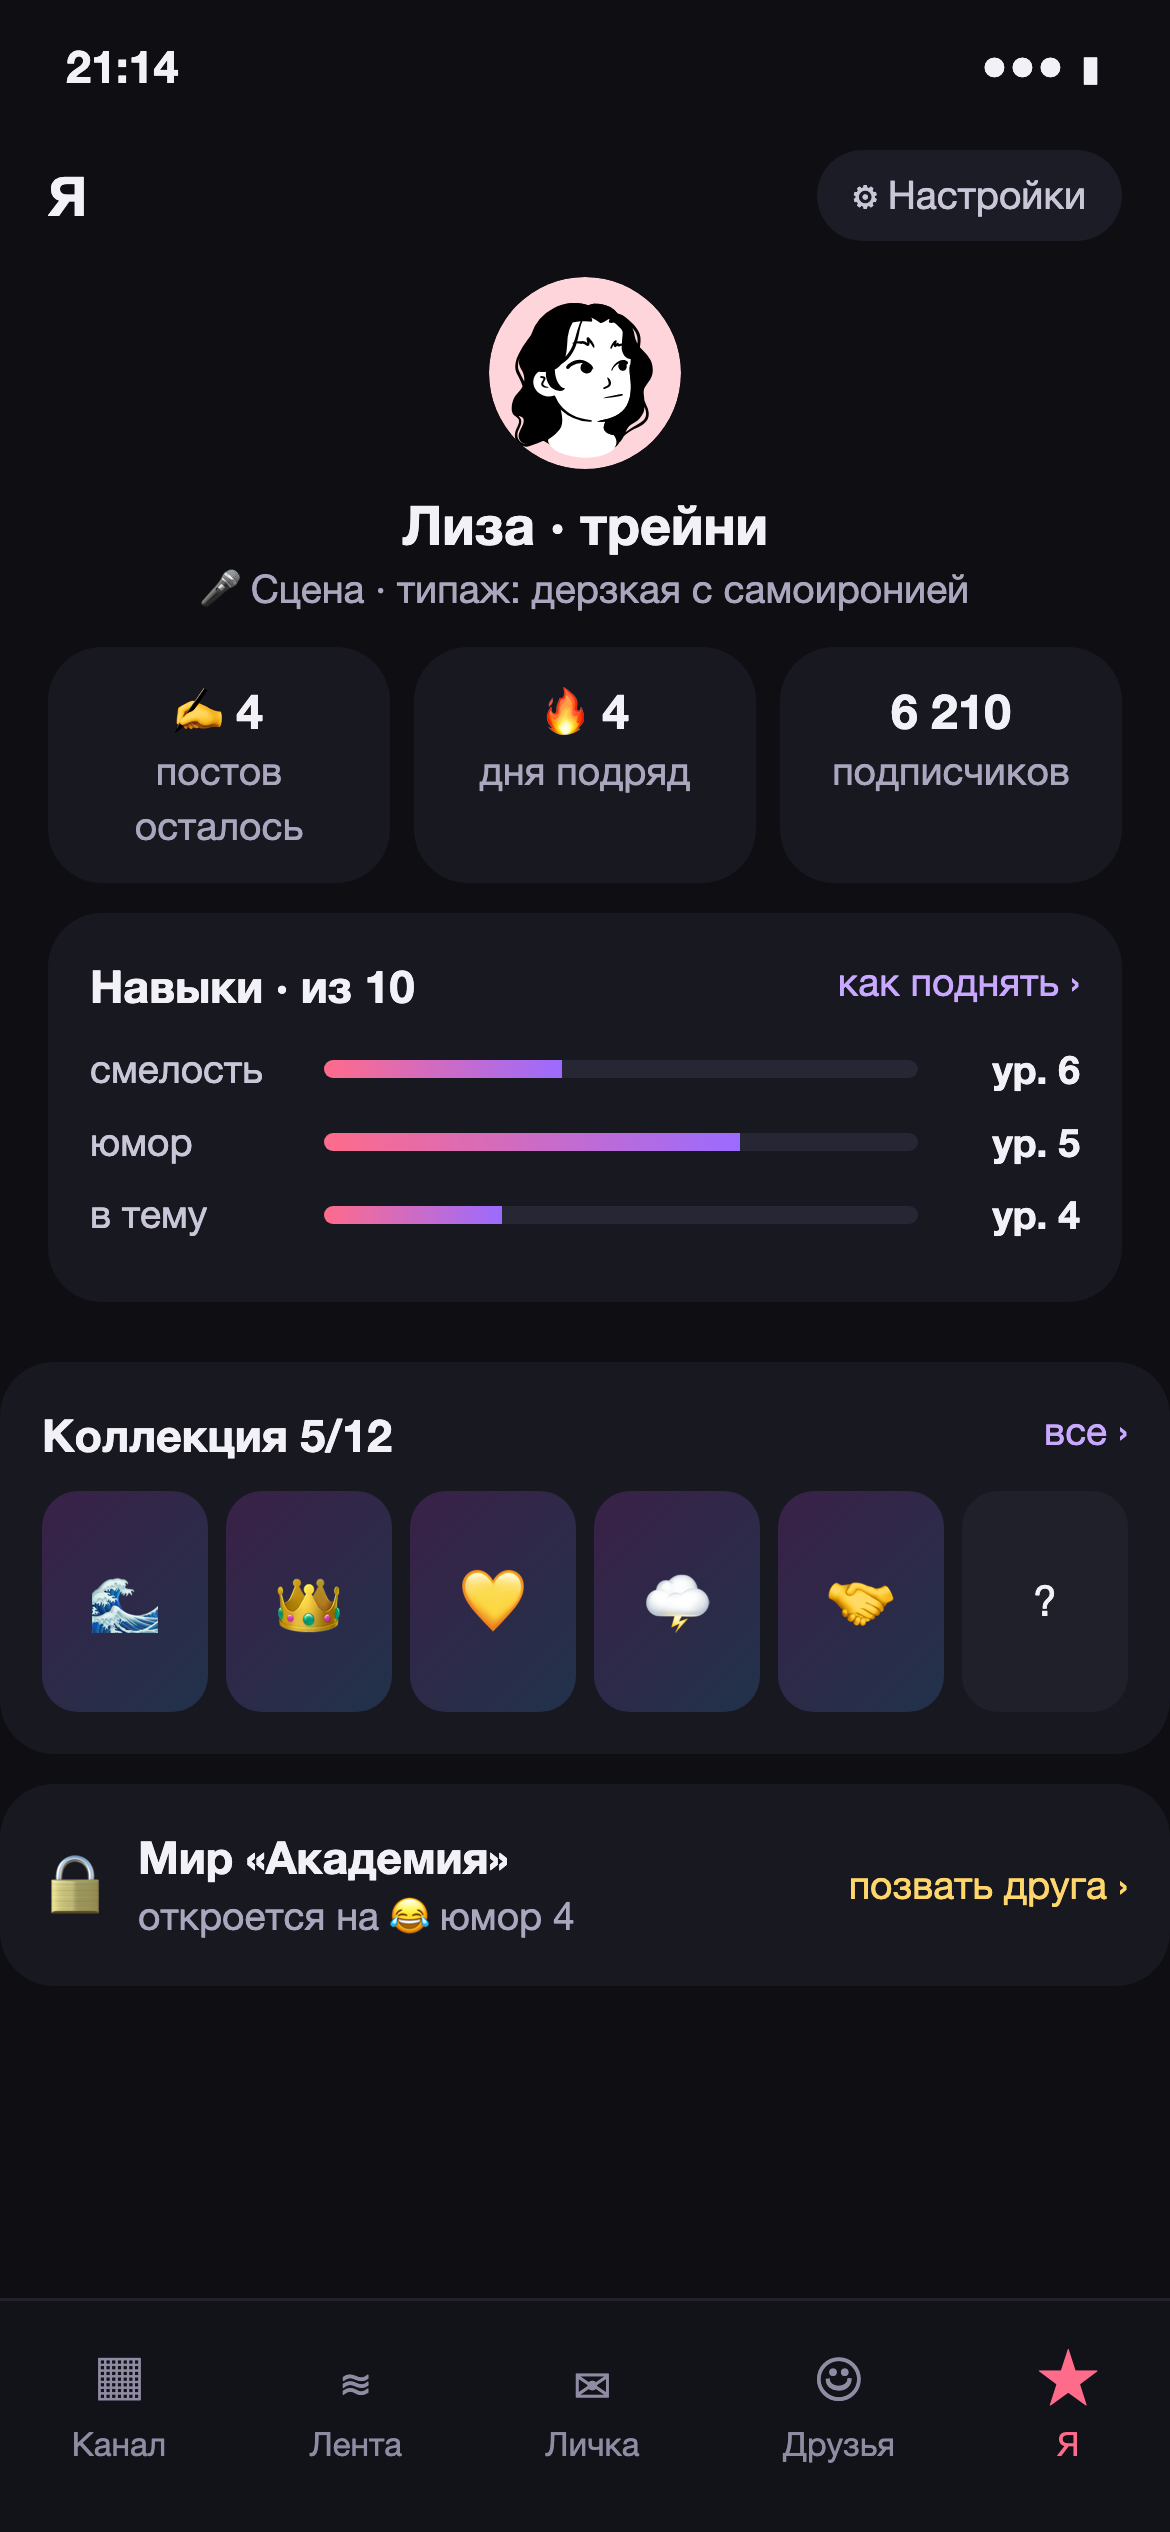
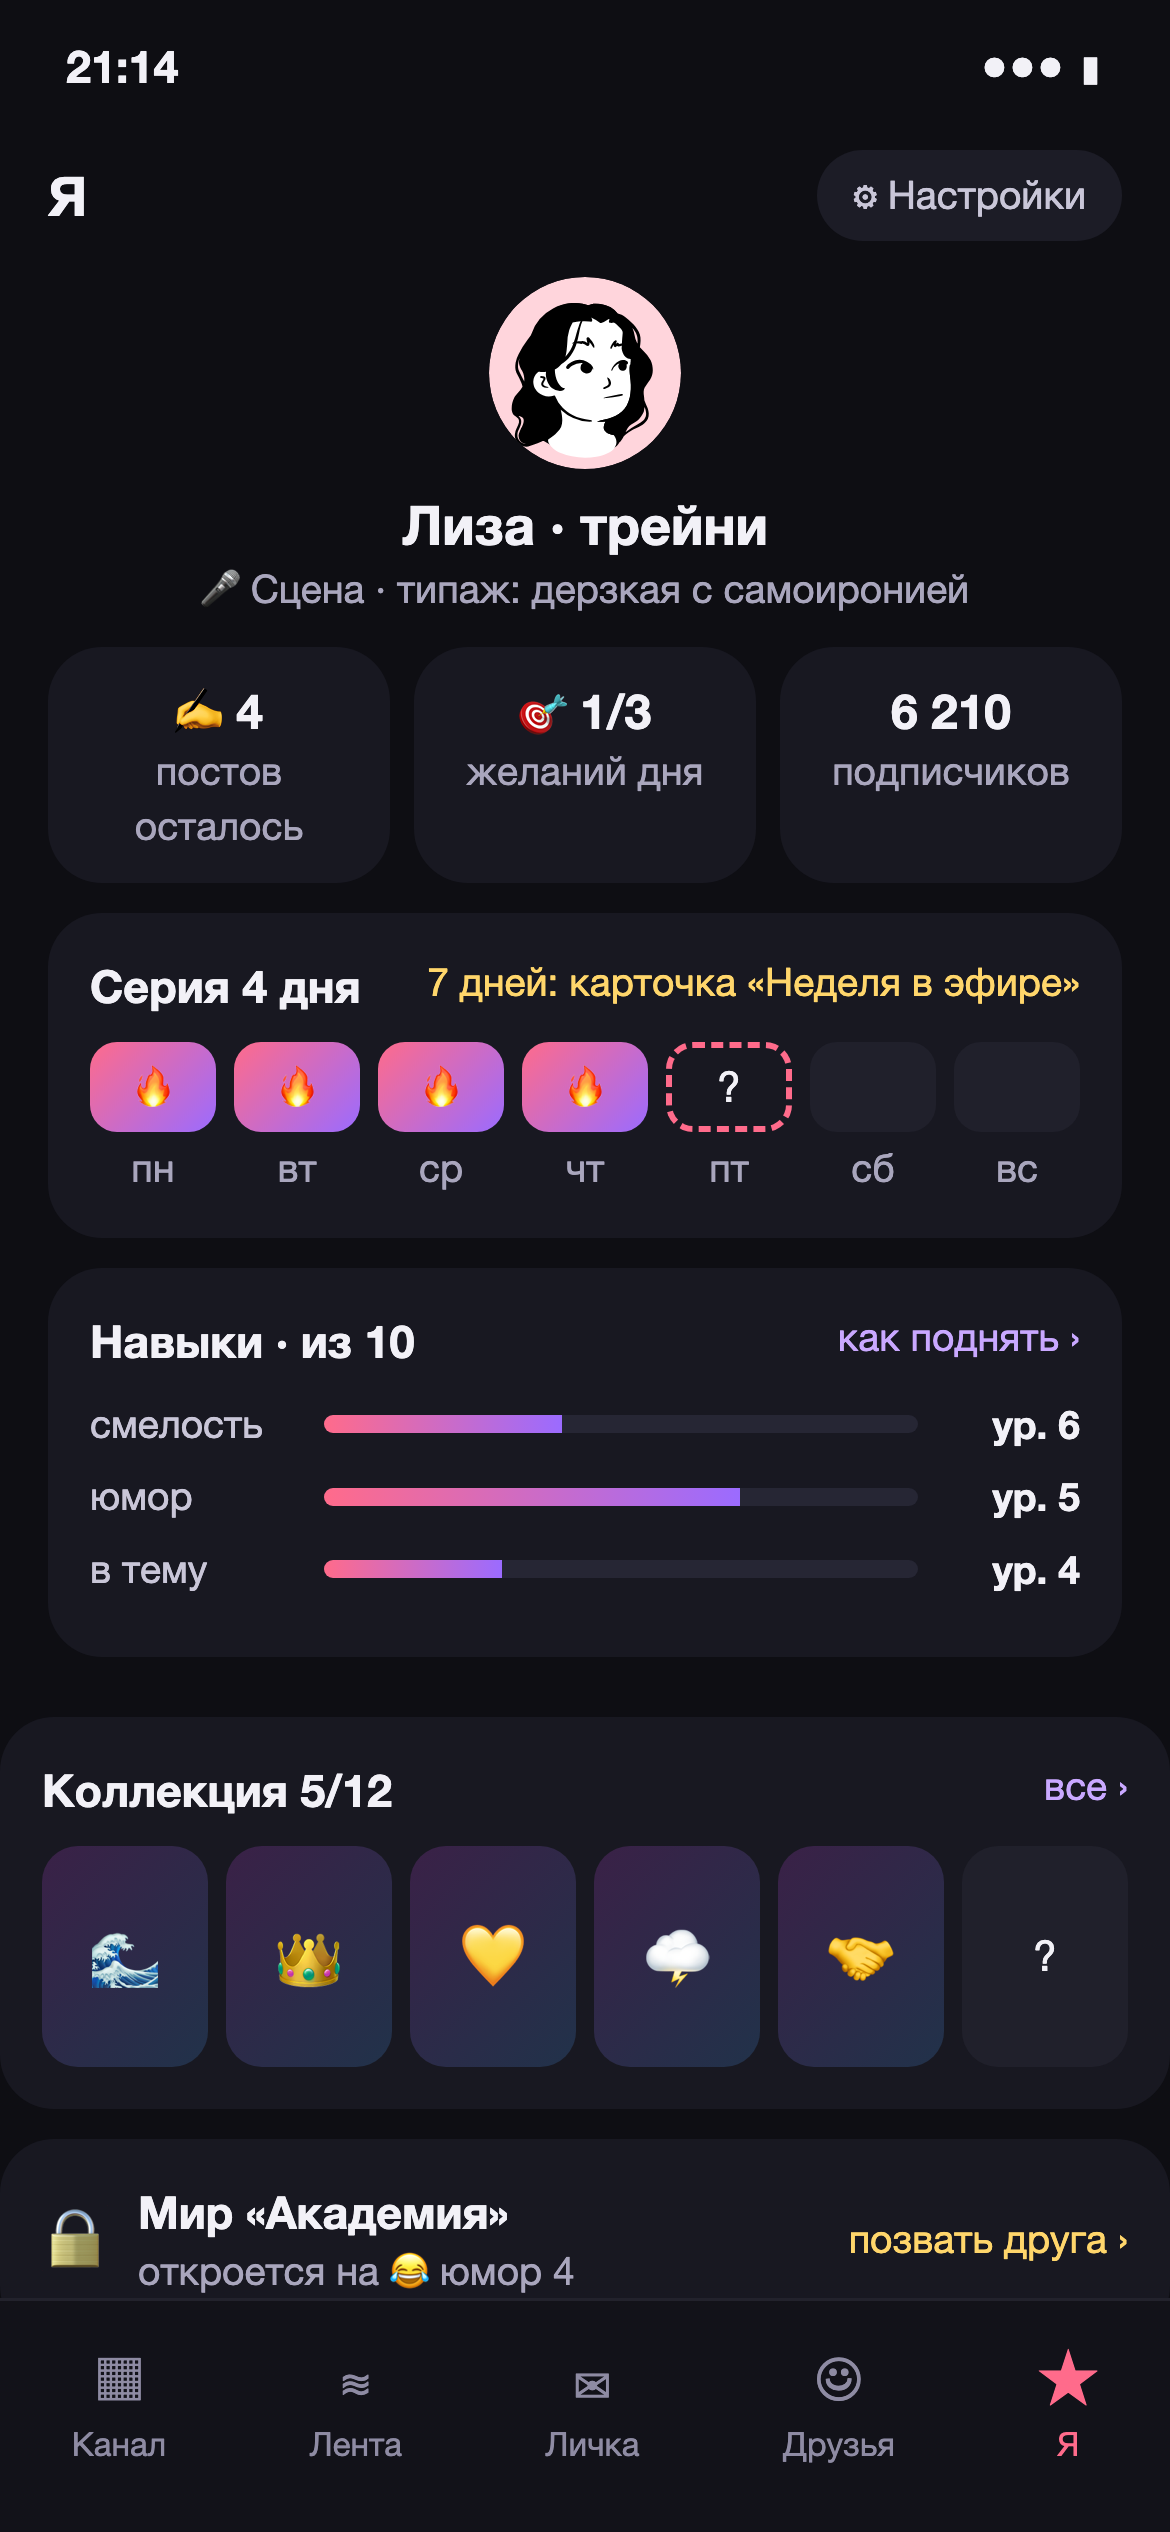
docs: серия дней — видимая неделя, лестница наград 3/7/14/30, «канал отдохнул» после 2+ дней пропуска
Claude-Session: https://claude.ai/code/session_01GQi8uC6KwujzmEq76WAh49

diff --git a/docs/game-flow.md b/docs/game-flow.md
@@ -50,7 +50,7 @@
 6. **Тред:** ответы бесплатны. Первые 3 ответа под постом дают бонус, ветка до 2 шагов, потом комментатор ставит реакцию.
 7. **Нить.** На постах 1–9 нить закрывается через 1–3 хода (звезда ответит через пару постов, тема для следующего поста, близкая цель). Нить «на завтра» только у последнего поста дня. Открыта одна нить, максимум две.
 
-**Рост:** прирост за пост ∝ подписчики^0,6 × качество поста (не процент, иначе рост экспоненциальный). Посты 1–5 дня дают полный рост, 6–10 по 70%, сверх 10 (бонусы, Реки+) по 25%. До 1k рост ×2. **Канал отдохнул:** после пропущенного дня первые 3 поста ×2. Экономику считает код, не модель.
+**Рост:** прирост за пост ∝ подписчики^0,6 × качество поста (не процент, иначе рост экспоненциальный). Посты 1–5 дня дают полный рост, 6–10 по 70%, сверх 10 (бонусы, Реки+) по 25%. До 1k рост ×2. **Канал отдохнул:** после 2+ дней пропуска первые 3 поста ×2. Экономику считает код, не модель.
 
 **Ориентиры** (симуляция, медиана): средний игрок 1k на 2-й день, 5k на 5-й, 10k на 7-й, 100k на 16-й, 1M примерно за месяц. Казуал 1k на 5-й день. Реки+ опережает примерно на неделю. Числа в конфиге, крутим без выпуска версии.
 
@@ -85,7 +85,8 @@
 - **Желания дня:** 3 маленькие цели, новые каждый день («пошути про хореографа», «ответь Еве», «пост про ошибку»). Выполнил: опыт ×1,3 и немного отношений. Это ответ на «о чём писать» и причина для каждого поста.
 - **Открытие дня:** каждый день минимум одна новинка: карточка, звезда, приём, желание. Без пустых дней.
 - **3-й день:** в мире появляется новая звезда.
-- **Серия дней:** бонус за 3 и 7 дней, не сгорает, пропуск ставит её на паузу.
+- **Серия дней:** видимая неделя на экране «Я» (дни огнём, сегодня пунктиром). Лестница наград: 3 дня +2 поста, 7 дней карточка «Неделя в эфире», 14 дней рамка аватарки, 30 дней звезда-гость. Награды в основном оформление и контент, не посты. Серия не сгорает: пропуск ставит её на паузу.
+- **Возврат после пропуска:** после 1 дня пропуска «пока тебя не было» (сводка и событие-пост без лимита), **«канал отдохнул» ×2 на первые 3 поста только после 2+ дней пропуска**, иначе пропуск одного дня выгоднее захода.
 - **Уведомлений не больше 3 в день, с 22:00 до 9:00 ни одного.**
 
 ## 6. Навыки, достижения, заруба
@@ -124,6 +125,8 @@
 ## Симуляция
 
 03.10: 7 типов игроков × 400 прогонов × 30 дней. При старых правилах средний игрок брал 1M на 11-й день, Реки+ на 4-й, залёт был каждым седьмым постом, Айти-тусовка у казуала открывалась на 18-й день, 3 дня из первых 14 проходили без нового. Правки выше это исправляют.
+
+Цикл 5 (серия дней, 30 дней, коэффициенты возврата допущены): лестница наград без видимой недели почти ничего не меняет; видимая неделя + лестница + «отдых» только после 2+ дней пропуска поднимают серию 7+ у среднего с 59% до 87%, 14+ с 2% до 21%, у казуала доля ушедших 18% → 15%.
 
 Цикл 4 (аудит как в The Sims): миры отличались только текстом, переезд в новый мир резал подписчиков вдвое у всех, уровни приходили пачкой и замирали на неделю, у казуала залёт раз в 5 заходов, у поста не было причины. Отсюда миры с числами, подписчики без падений, 10 уровней, гарантия залёта по заходам, «почти залетел» и желания дня.
 
